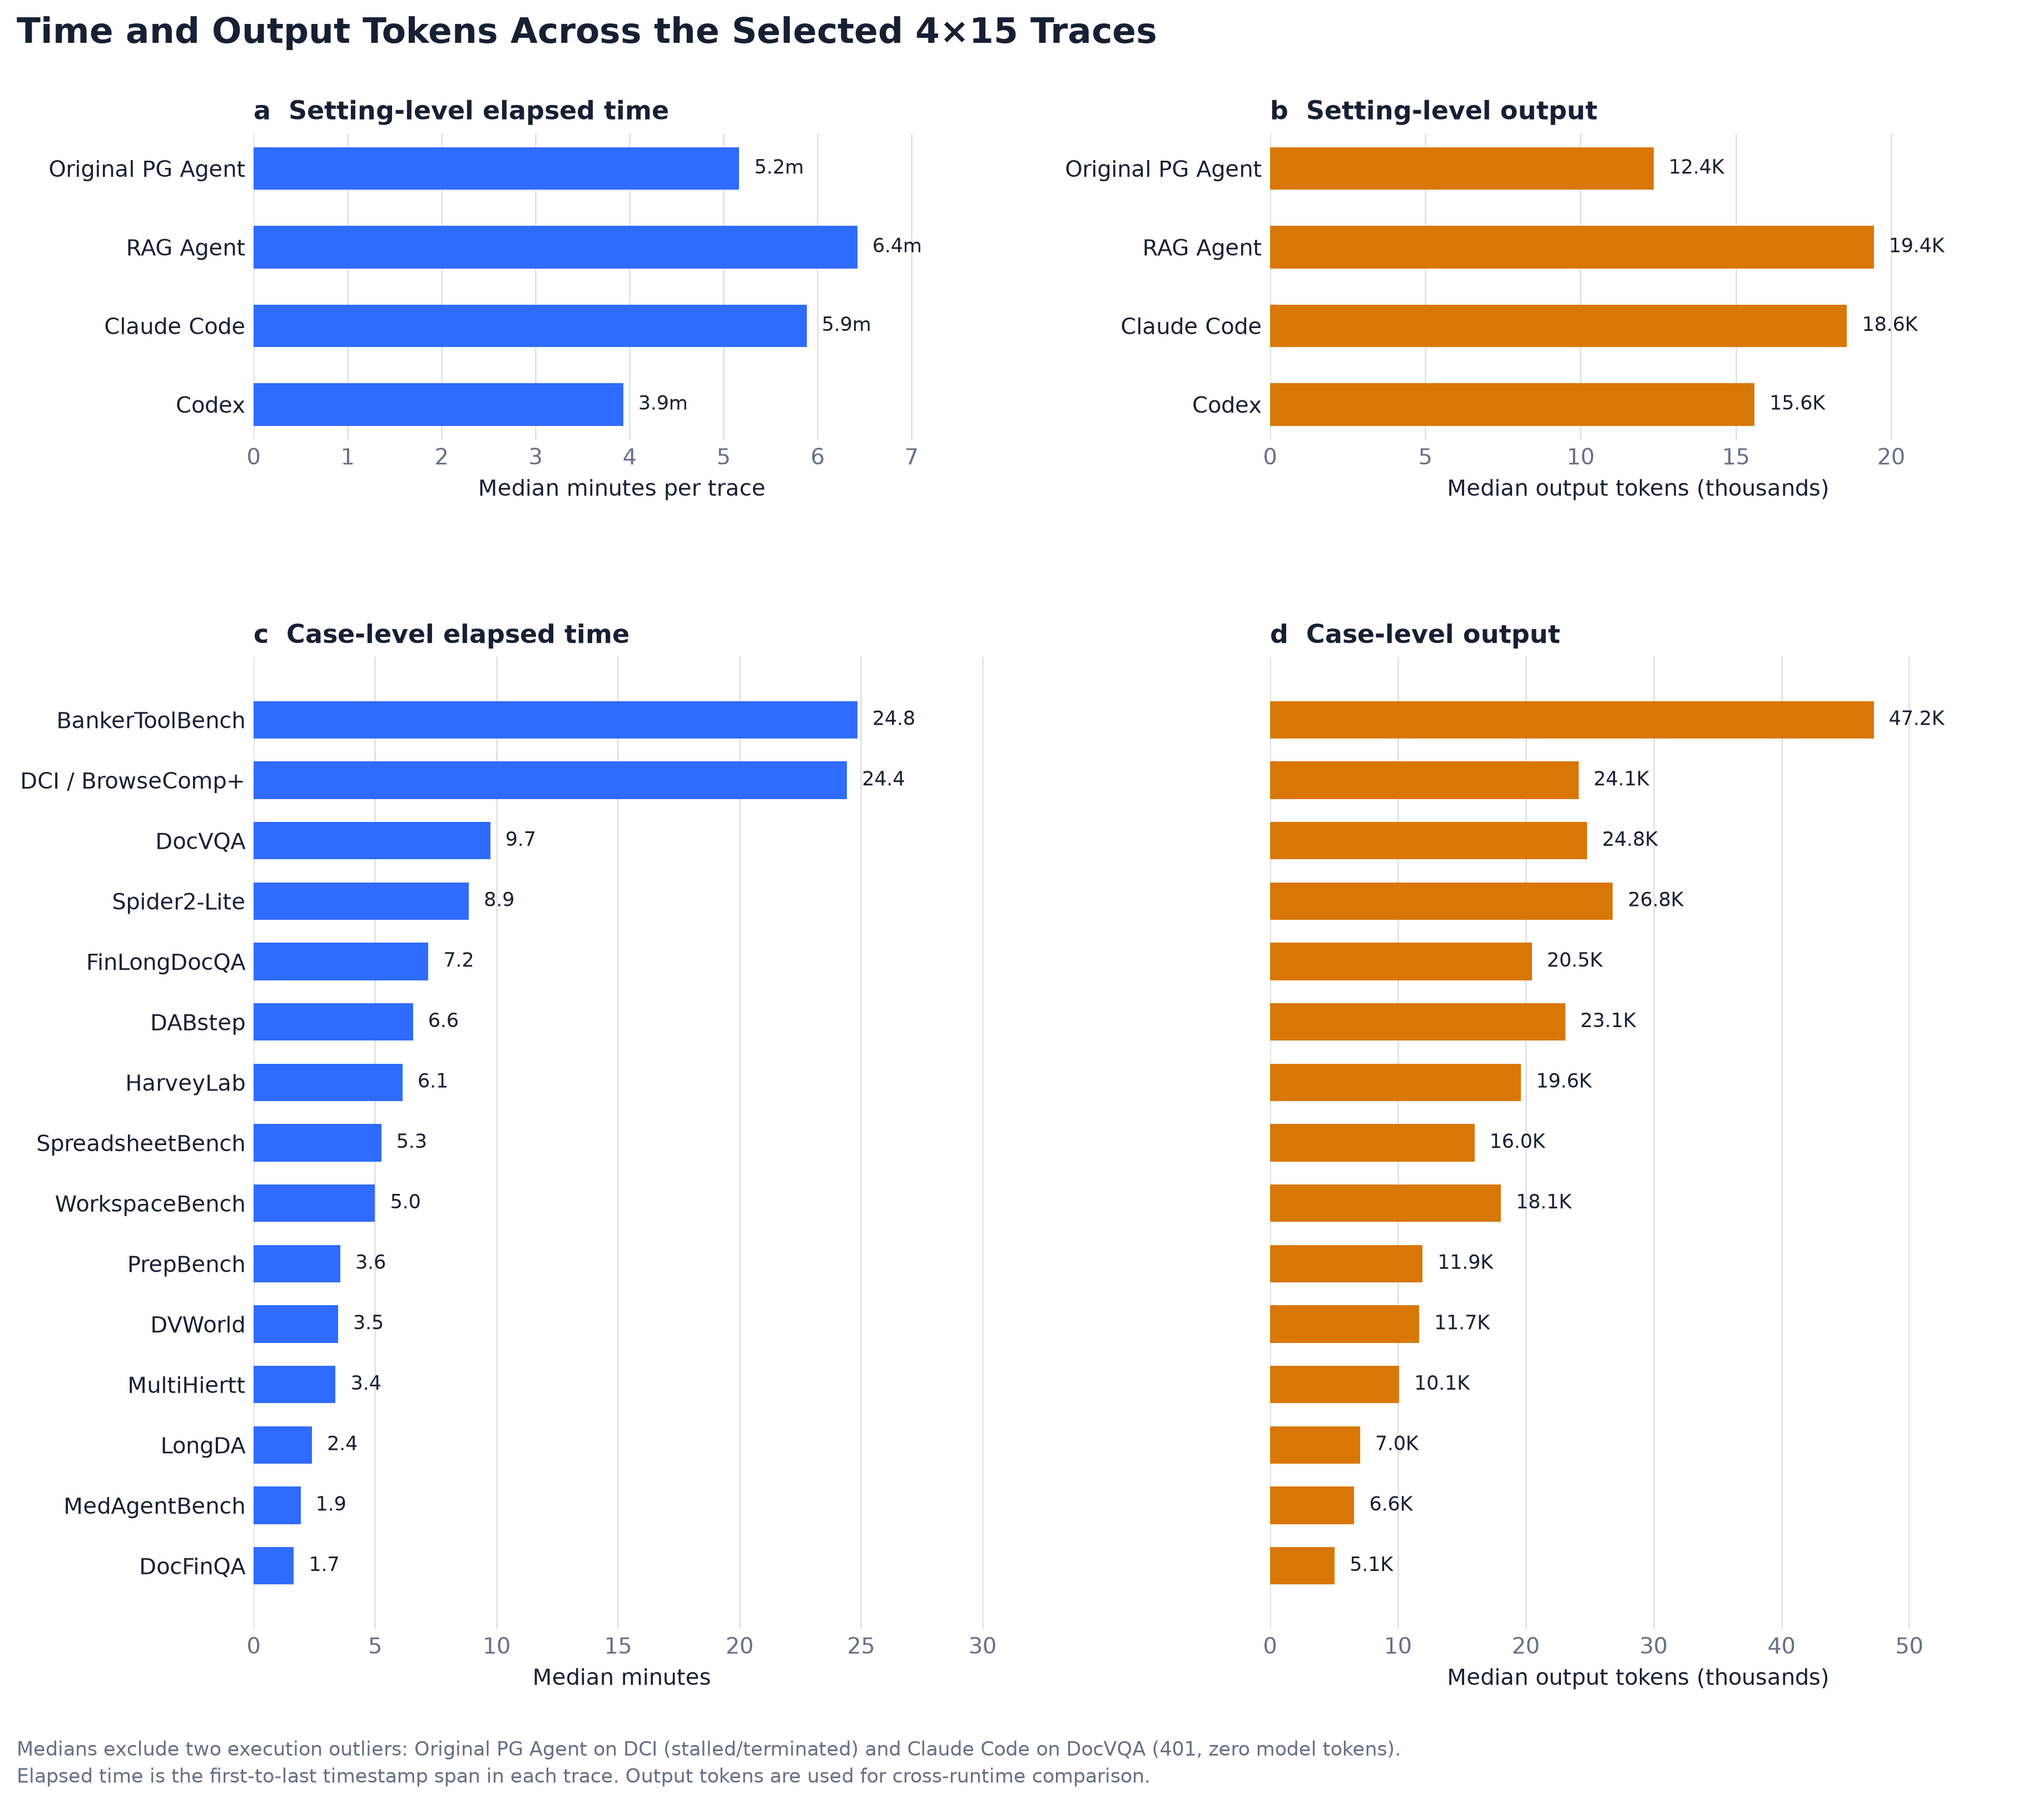
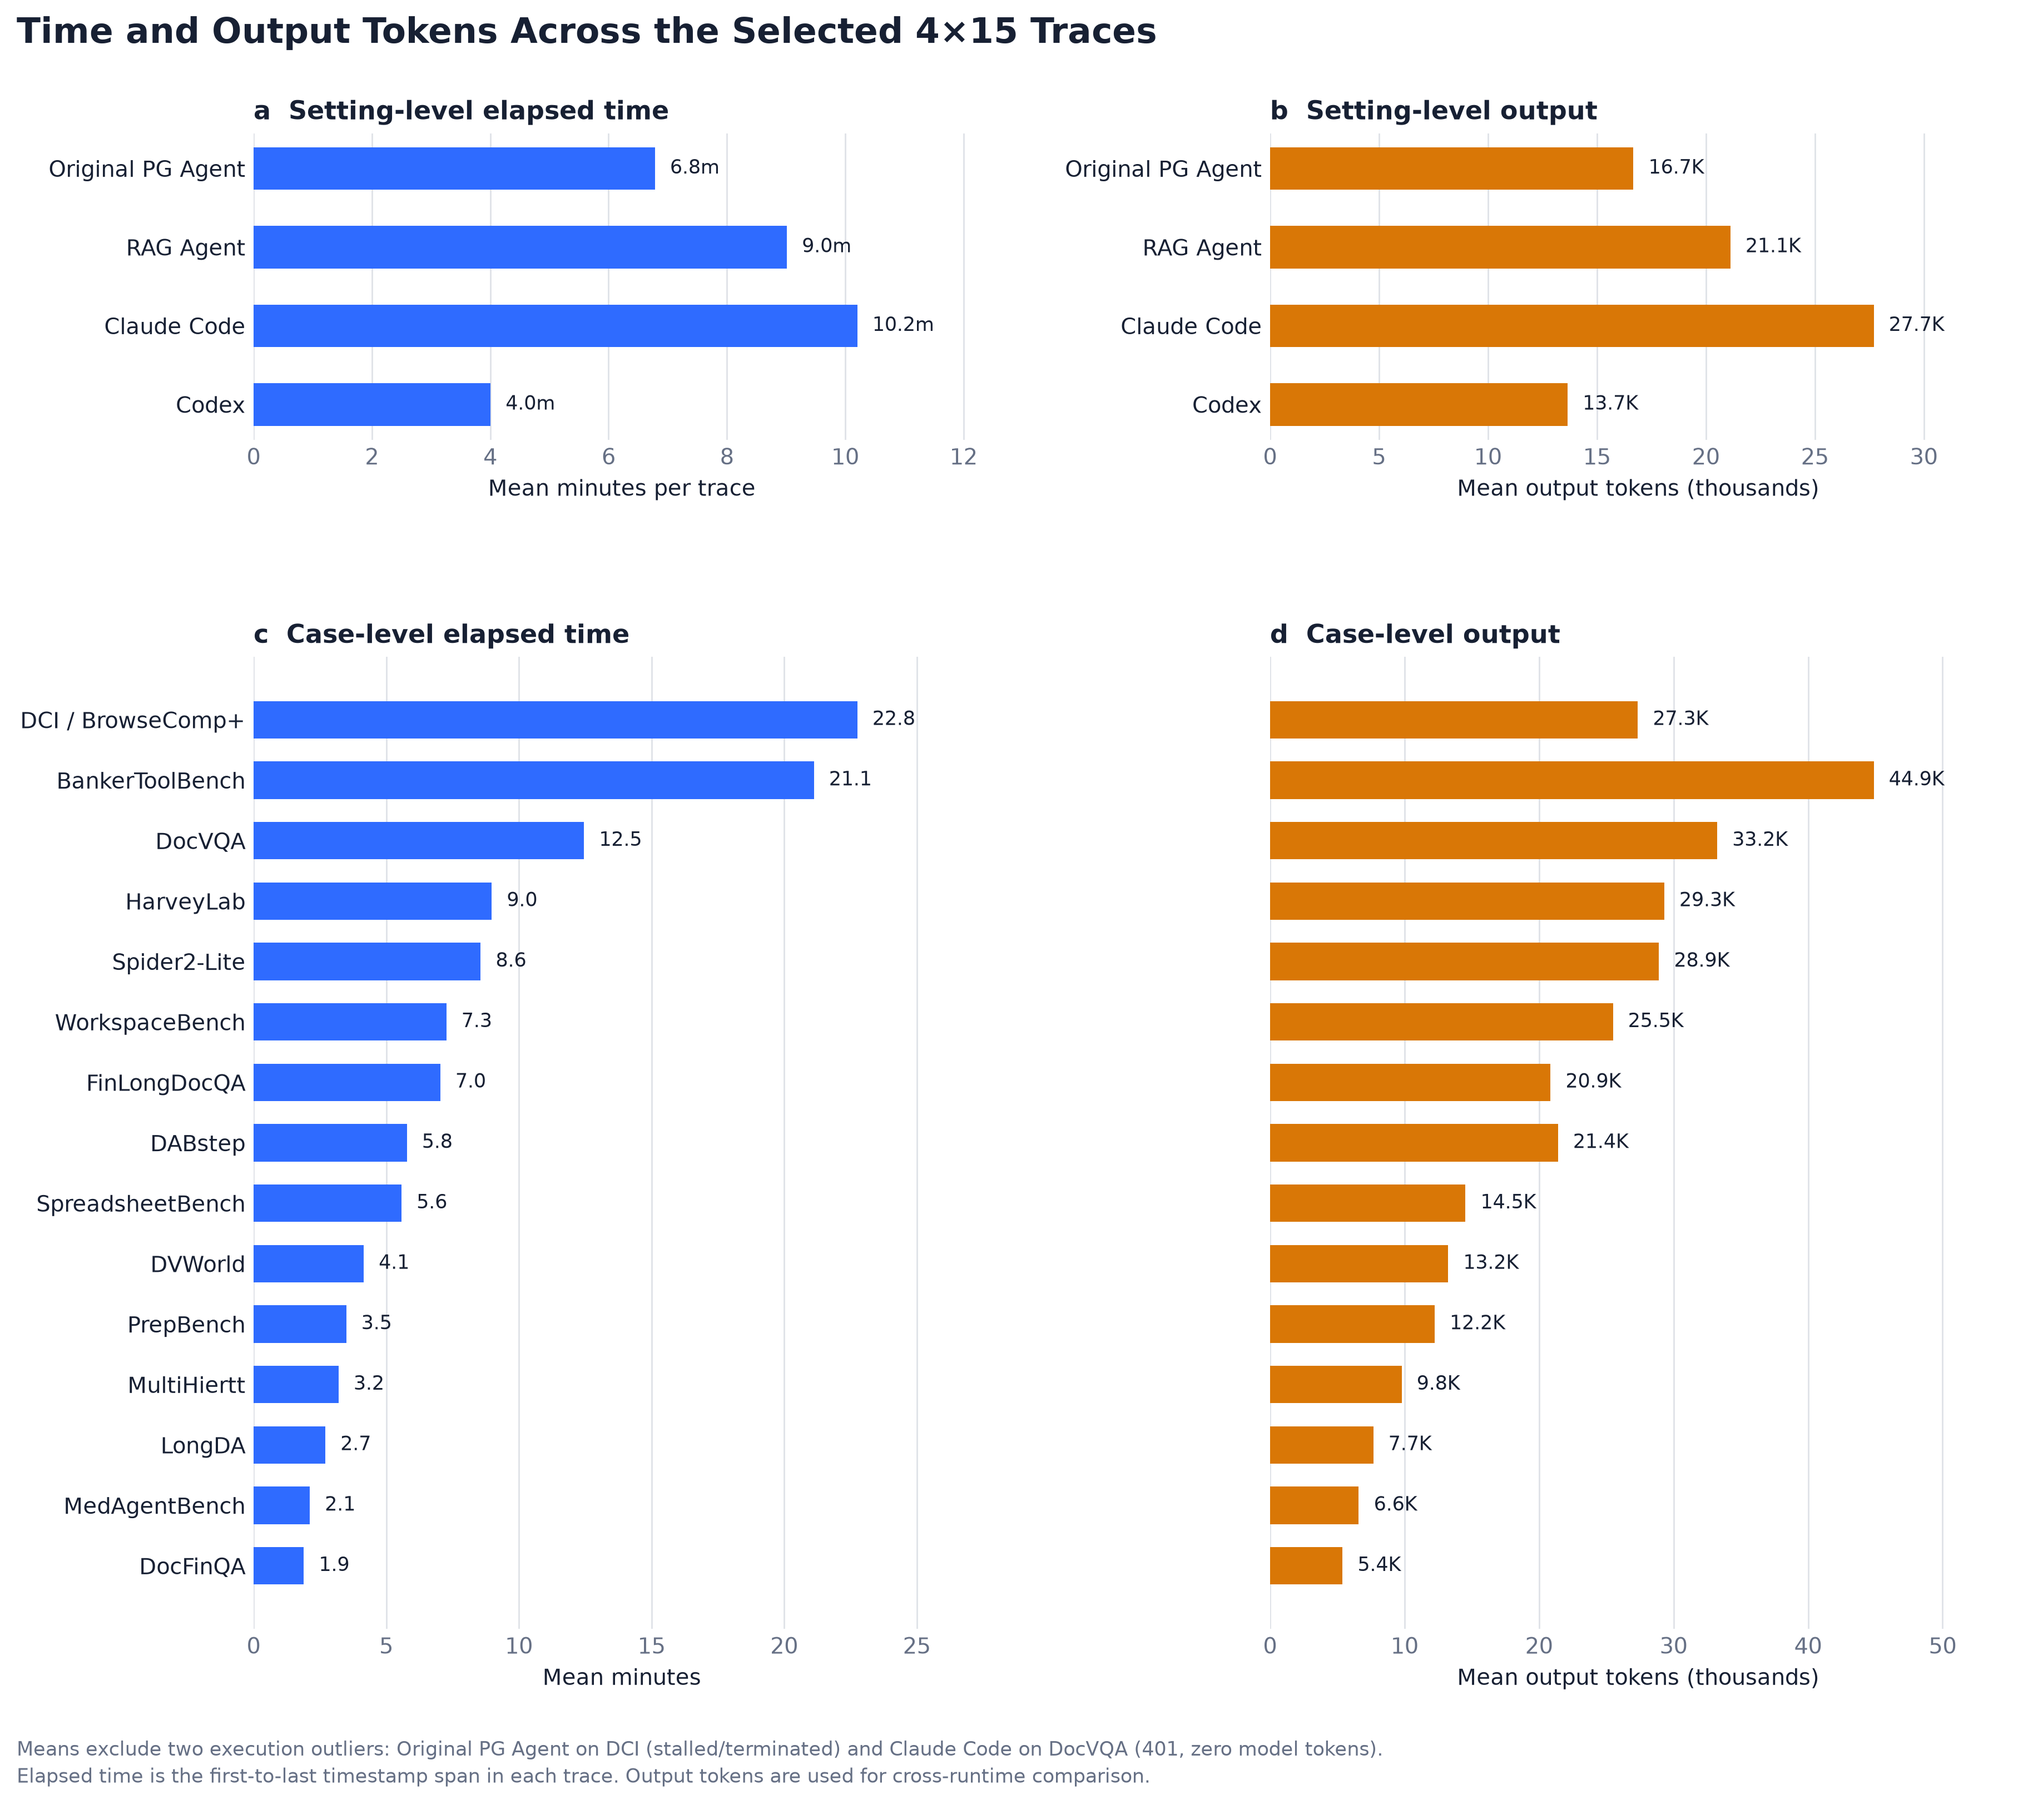
feat(results): add clean mean metrics
Report outlier-filtered means alongside medians for every case and setting, and update the efficiency figure to display clean means.

diff --git a/figures/plot_trace_efficiency.py b/figures/plot_trace_efficiency.py
@@ -275,10 +275,13 @@ def summarize_cases(metrics: list[dict[str, Any]]) -> list[dict[str, Any]]:
                 "trace_count": len(rows),
                 "excluded_trace_count": len(rows) - len(valid),
                 "valid_trace_count": len(valid),
+                "mean_duration_seconds": round(statistics.mean(durations), 3),
+                "mean_duration_minutes": round(statistics.mean(durations) / 60, 3),
                 "median_duration_seconds": round(statistics.median(durations), 3),
                 "median_duration_minutes": round(statistics.median(durations) / 60, 3),
                 "min_duration_seconds": round(min(durations), 3),
                 "max_duration_seconds": round(max(durations), 3),
+                "mean_output_tokens": round(statistics.mean(outputs), 1),
                 "median_output_tokens": round(statistics.median(outputs), 1),
                 "min_output_tokens": min(outputs),
                 "max_output_tokens": max(outputs),
@@ -305,6 +308,10 @@ def summarize_settings(metrics: list[dict[str, Any]]) -> list[dict[str, Any]]:
                 "clean_total_duration_seconds": round(
                     sum(float(row["duration_seconds"]) for row in valid), 3
                 ),
+                "mean_duration_seconds": round(
+                    statistics.mean(float(row["duration_seconds"]) for row in valid),
+                    3,
+                ),
                 "median_duration_seconds": round(
                     statistics.median(float(row["duration_seconds"]) for row in valid),
                     3,
@@ -313,6 +320,9 @@ def summarize_settings(metrics: list[dict[str, Any]]) -> list[dict[str, Any]]:
                     int(row["processed_tokens"]) for row in rows
                 ),
                 "clean_output_tokens": sum(int(row["output_tokens"]) for row in valid),
+                "mean_output_tokens": round(
+                    statistics.mean(int(row["output_tokens"]) for row in valid), 1
+                ),
                 "median_output_tokens": round(
                     statistics.median(int(row["output_tokens"]) for row in valid), 1
                 ),
@@ -324,7 +334,7 @@ def summarize_settings(metrics: list[dict[str, Any]]) -> list[dict[str, Any]]:
 def write_csv(path: Path, rows: list[dict[str, Any]]) -> None:
     path.parent.mkdir(parents=True, exist_ok=True)
     with path.open("w", encoding="utf-8", newline="") as handle:
-        writer = csv.DictWriter(handle, fieldnames=list(rows[0]))
+        writer = csv.DictWriter(handle, fieldnames=list(rows[0]), lineterminator="\n")
         writer.writeheader()
         writer.writerows(rows)
 
@@ -391,13 +401,13 @@ def draw_figure(
 
     agent_labels = [row["agent"] for row in setting_summary]
     agent_y = list(range(len(agent_labels)))
-    time_values = [row["median_duration_seconds"] / 60 for row in setting_summary]
-    token_values = [row["median_output_tokens"] / 1000 for row in setting_summary]
+    time_values = [row["mean_duration_seconds"] / 60 for row in setting_summary]
+    token_values = [row["mean_output_tokens"] / 1000 for row in setting_summary]
 
     bars = setting_time.barh(agent_y, time_values, color=PASS_COLOR, height=0.54)
     setting_time.set_yticks(agent_y, agent_labels)
     setting_time.invert_yaxis()
-    setting_time.set_xlabel("Median minutes per trace")
+    setting_time.set_xlabel("Mean minutes per trace")
     setting_time.set_title("a  Setting-level elapsed time", loc="left", fontweight="bold")
     style_axis(setting_time)
     annotate_bars(setting_time, bars, lambda value: f"{value:.1f}m")
@@ -405,30 +415,30 @@ def draw_figure(
     bars = setting_tokens.barh(agent_y, token_values, color=TOKEN_COLOR, height=0.54)
     setting_tokens.set_yticks(agent_y, agent_labels)
     setting_tokens.invert_yaxis()
-    setting_tokens.set_xlabel("Median output tokens (thousands)")
+    setting_tokens.set_xlabel("Mean output tokens (thousands)")
     setting_tokens.set_title("b  Setting-level output", loc="left", fontweight="bold")
     style_axis(setting_tokens)
     annotate_bars(setting_tokens, bars, lambda value: f"{value:.1f}K")
 
     ordered_cases = sorted(
-        case_summary, key=lambda row: row["median_duration_seconds"], reverse=True
+        case_summary, key=lambda row: row["mean_duration_seconds"], reverse=True
     )
     case_labels = [row["display_name"] for row in ordered_cases]
     case_y = list(range(len(case_labels)))
-    time_values = [row["median_duration_seconds"] / 60 for row in ordered_cases]
-    token_values = [row["median_output_tokens"] / 1000 for row in ordered_cases]
+    time_values = [row["mean_duration_seconds"] / 60 for row in ordered_cases]
+    token_values = [row["mean_output_tokens"] / 1000 for row in ordered_cases]
 
     bars = case_time.barh(case_y, time_values, color=PASS_COLOR, height=0.62)
     case_time.set_yticks(case_y, case_labels)
     case_time.invert_yaxis()
-    case_time.set_xlabel("Median minutes")
+    case_time.set_xlabel("Mean minutes")
     case_time.set_title("c  Case-level elapsed time", loc="left", fontweight="bold")
     style_axis(case_time)
     annotate_bars(case_time, bars, lambda value: f"{value:.1f}")
 
     bars = case_tokens.barh(case_y, token_values, color=TOKEN_COLOR, height=0.62)
     case_tokens.tick_params(axis="y", labelleft=False)
-    case_tokens.set_xlabel("Median output tokens (thousands)")
+    case_tokens.set_xlabel("Mean output tokens (thousands)")
     case_tokens.set_title("d  Case-level output", loc="left", fontweight="bold")
     style_axis(case_tokens)
     annotate_bars(case_tokens, bars, lambda value: f"{value:.1f}K")
@@ -436,7 +446,7 @@ def draw_figure(
     figure.text(
         0.12,
         0.017,
-        "Medians exclude two execution outliers: Original PG Agent on DCI (stalled/terminated) and Claude Code on DocVQA (401, zero model tokens).",
+        "Means exclude two execution outliers: Original PG Agent on DCI (stalled/terminated) and Claude Code on DocVQA (401, zero model tokens).",
         ha="left",
         va="bottom",
         fontsize=8.5,

diff --git a/RESULTS_ANALYSIS.md b/RESULTS_ANALYSIS.md
@@ -29,22 +29,23 @@ Original PG Agent 使用近空 `AGENTS.md`，通过 5/15；RAG Agent 通过 10/1
 
 ## 时间与 token
 
-下表使用剔除明确执行异常后的中位数。耗时是 trace 首尾时间戳跨度；token 使用跨 runtime
+下表同时给出剔除明确执行异常后的平均数和中位数。耗时是 trace 首尾时间戳跨度；token 使用跨 runtime
 更可比的输出 token。Original PG Agent 的 DCI 停滞终止和 Claude Code 的 DocVQA 401
 不进入稳健汇总。
 
-| Setting | 有效 trace | 中位耗时 | 中位输出 token |
-| --- | ---: | ---: | ---: |
-| Original PG Agent | 14 | 5m 10s | 12.4K |
-| RAG Agent | 15 | 6m 25s | 19.4K |
-| Claude Code | 14 | 5m 53s | 18.6K |
-| Codex | 15 | 3m 56s | 15.6K |
+| Setting | 有效 trace | 平均耗时 | 中位耗时 | 平均输出 token | 中位输出 token |
+| --- | ---: | ---: | ---: | ---: | ---: |
+| Original PG Agent | 14 | 6m 47s | 5m 10s | 16.7K | 12.4K |
+| RAG Agent | 15 | 9m 01s | 6m 25s | 21.1K | 19.4K |
+| Claude Code | 14 | 10m 12s | 5m 53s | 27.7K | 18.6K |
+| Codex | 15 | 4m 00s | 3m 56s | 13.7K | 15.6K |
 
-按 case 看，BankerToolBench 和 DCI 的中位耗时分别为 24.8 和 24.4 分钟，明显高于其他
-case。BankerToolBench 还需要中位 47.2K 输出 token，反映其 Excel、PPT、PDF 多交付链路；
-DCI 的高耗时则主要来自大语料搜索和收束困难。DocFinQA、MedAgentBench 和 LongDA 的
-中位耗时均低于 2.5 分钟。
+按 case 看，DCI 和 BankerToolBench 的平均耗时分别为 22.8 和 21.1 分钟，明显高于其他
+case。BankerToolBench 还需要平均 44.9K 输出 token，反映其 Excel、PPT、PDF 多交付链路；
+DCI 的高耗时则主要来自大语料搜索和收束困难。DocFinQA 和 MedAgentBench 的平均耗时
+分别为 1.9 和 2.1 分钟。
 
-RAG Agent 与 Claude Code 都通过 10/15；二者中位耗时和输出 token 接近。Codex 更快、
-输出更少，但只通过 7/15，因此不能把较低时间或 token 直接解释为更高效率。逐 trace
+RAG Agent 与 Claude Code 都通过 10/15；RAG Agent 的平均耗时和输出 token 分别为
+9.0 分钟和 21.1K，低于 Claude Code 的 10.2 分钟和 27.7K。Codex 更快、输出更少，
+但只通过 7/15，因此不能把较低时间或 token 直接解释为更高效率。逐 trace
 原始值和逐 case 稳健汇总见 [`results/`](results/README.md)。

diff --git a/results/README.md b/results/README.md
@@ -3,15 +3,15 @@
 本目录保存 60 条 selected trace 的时间与 token 统计。
 
 - `trace_metrics.csv`：逐 trace 明细，共 60 行，包含结果、起止时间、耗时、token 分量、运行状态和异常值标记。
-- `case_summary.csv`：逐 case 汇总，共 15 行；对四个 setting 取稳健中位数。
-- `setting_summary.csv`：逐 setting 汇总，共 4 行；同时保留原始总耗时和剔除异常后的统计。
+- `case_summary.csv`：逐 case 汇总，共 15 行；包含剔除异常后的均值、中位数和范围。
+- `setting_summary.csv`：逐 setting 汇总，共 4 行；同时保留原始总耗时、clean mean 和中位数。
 
 ## 统计口径
 
 - 耗时是 trace 中第一条到最后一条可解析时间戳的跨度，不包含外部 validator。
 - 跨 runtime 比较使用 `output_tokens`。`processed_tokens` 保留各 runtime 原生上报值，但输入和 cache 语义并不完全一致。
 - PG 使用最后一条累计 `token_usage.session`；Claude Code 按 API message id 去重后求和；Codex 使用最后一条累计 `total_token_usage`。
-- Setting 和 case 的稳健值均使用中位数。
+- Setting 和 case 同时提供剔除异常后的均值与中位数；主图展示均值。
 
 两条明确的执行异常不进入稳健汇总：
 

diff --git a/README.md b/README.md
@@ -34,8 +34,9 @@ trace；更具体的结果见该目录下的 `README.md`。
 ## Time and tokens
 
 时间按每条 trace 第一条到最后一条事件计算；跨 runtime 的 token 对比使用输出 token。
-稳健中位数剔除了 Original PG Agent 的 DCI 长时间停滞终止，以及 Claude Code 的
-DocVQA 401/零 token 运行。60 条逐 trace 明细、15 个 case 汇总和 4 个 setting 汇总见
+图中的平均数剔除了 Original PG Agent 的 DCI 长时间停滞终止，以及 Claude Code 的
+DocVQA 401/零 token 运行；CSV 同时保留 clean mean 和中位数。60 条逐 trace 明细、
+15 个 case 汇总和 4 个 setting 汇总见
 [`results/`](results/README.md)。
 
 ![Trace time and output tokens](figures/trace_efficiency.png)
